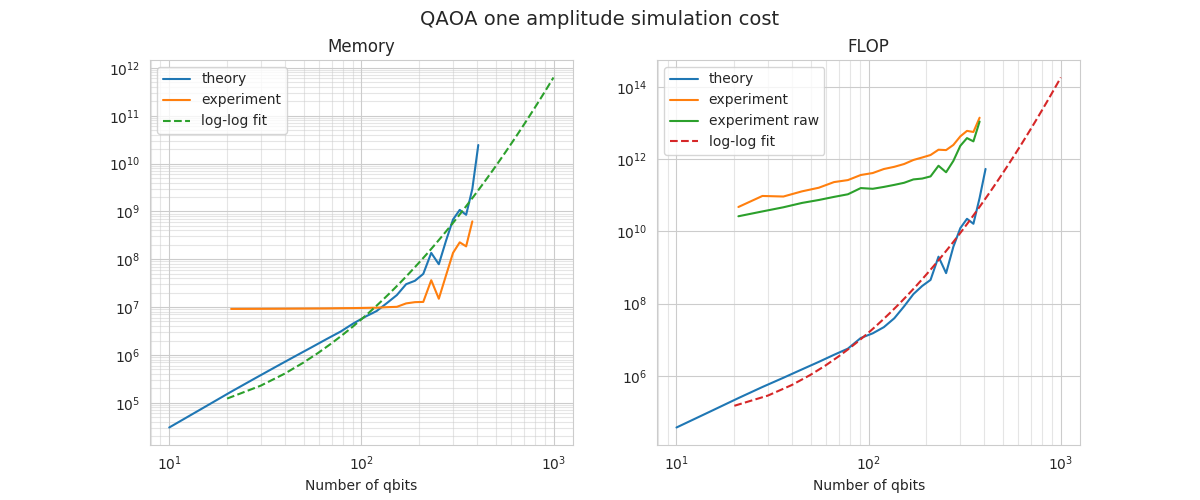
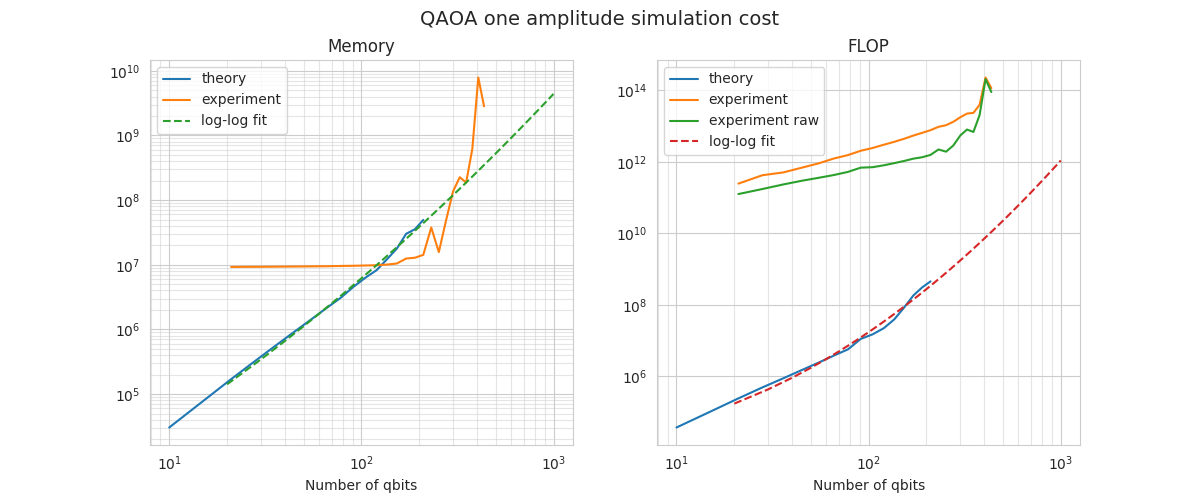
results from server 29

diff --git a/qaoa/Analyse QAOA cost.py b/qaoa/Analyse QAOA cost.py
@@ -165,7 +165,7 @@ for key in profile:
     profile[key] = []
     
 profile['N'] = []
-sizes = np.arange(5,27) 
+sizes = np.arange(5,29) 
 
 for S in sizes[:]:
     qc, N = get_test_qaoa(S)
@@ -198,7 +198,7 @@ plt.xscale('log')
 # -
 
 # Sizes for theory
-sizes = np.arange(3,21)
+sizes = np.arange(3,20)
 
 results = [
    get_cost_of_task(s) for s in sizes
